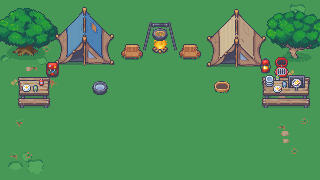
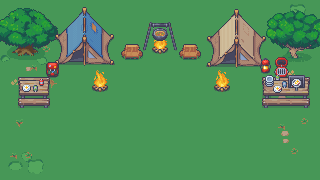
swap the bins in the venue backdrops for props that fit each place

Changed region(s): [[0.6562, 0.3889, 0.7188, 0.5278], [0.2812, 0.3889, 0.3438, 0.5278]]

diff --git a/scripts/venue-art.py b/scripts/venue-art.py
@@ -14,6 +14,7 @@ DESIGNS = MI / "6_Home_Designs"
 THEMES = MI / "1_Interiors/16x16/Theme_Sorter"
 BUILDER = MI / "1_Interiors/16x16/Room_Builder_subfiles"
 FARM = ART / "Modern_Farm_v1.3/16x16"
+PEOPLE = pathlib.Path(__file__).resolve().parent.parent / "public" / "court" / "people"
 OUT = pathlib.Path(__file__).resolve().parent.parent / "public" / "court" / "venues"
 OUT.mkdir(parents=True, exist_ok=True)
 W, H = 320, 180
@@ -68,14 +69,87 @@ def design(folder, stem):
     return load(DESIGNS / folder / "16x16" / stem)
 
 
-def bin_(n=13):
-    return ext(f"City_Props_16x16_Trashbin_{n}")
+def box(im, x, y, w, h, col):
+    im.paste(col, (x, y, x + w, y + h))
 
 
-def basin(s, im, x, y):
-    """A bin, bucket or basket the ball drops into: x is its middle, y the height of its opening.
+def sprite(w, h, parts):
+    """Tiny hand-drawn props: parts are (x, y, w, h, colour) boxes, later ones on top."""
+    im = Image.new("RGBA", (w, h))
+    for x, y, bw, bh, col in parts:
+        box(im, x, y, bw, bh, col)
+    return im
+
+
+def target(s, im, x, y, ox=None, oy=0):
+    """Puts a prop where the engine's thrown thing lands: (x, y) is that spot, (ox, oy) the same spot inside the prop.
     The engine's TARGETS (components/court/engine.ts) hold the same points."""
-    s.put(im, x, y + im.height - 3)
+    ox = im.width // 2 if ox is None else ox
+    s.queue.append((H + im.height, im, x - ox, y - oy))
+
+
+INK = (36, 28, 24, 255)
+
+
+def cart():
+    wood, light = (154, 107, 63, 255), (201, 150, 96, 255)
+    return sprite(24, 20, [
+        (0, 0, 2, 9, INK), (0, 0, 3, 2, INK),
+        (2, 5, 22, 3, INK), (3, 6, 20, 1, light),
+        (3, 8, 20, 8, INK), (4, 8, 18, 7, wood), (4, 8, 18, 1, light), (4, 11, 18, 1, INK),
+        (5, 13, 16, 1, INK), (5, 16, 4, 4, INK), (17, 16, 4, 4, INK), (6, 17, 2, 2, (170, 170, 176, 255)), (18, 17, 2, 2, (170, 170, 176, 255)),
+    ])
+
+
+def jar():
+    glass, rim = (190, 226, 238, 255), (112, 152, 172, 255)
+    return sprite(7, 10, [
+        (1, 0, 5, 2, (170, 176, 184, 255)), (1, 0, 5, 1, (214, 218, 224, 255)),
+        (0, 2, 7, 8, rim), (1, 2, 5, 7, glass), (1, 6, 5, 3, (240, 190, 80, 255)), (2, 7, 1, 1, (255, 230, 140, 255)), (4, 6, 1, 1, (255, 230, 140, 255)),
+    ])
+
+
+def pedestal():
+    stone, light, dark = (205, 200, 190, 255), (232, 228, 218, 255), (150, 144, 134, 255)
+    return sprite(16, 24, [
+        (0, 0, 16, 4, INK), (1, 1, 14, 2, light), (1, 3, 14, 1, dark),
+        (2, 4, 12, 16, INK), (3, 4, 10, 15, stone), (3, 4, 1, 15, light), (12, 4, 1, 15, dark),
+        (0, 20, 16, 4, INK), (1, 20, 14, 3, dark), (1, 20, 14, 1, stone),
+    ])
+
+
+def guitar_case():
+    return sprite(18, 10, [
+        (1, 0, 16, 3, INK), (2, 1, 14, 2, (92, 62, 40, 255)),
+        (0, 3, 18, 7, INK), (1, 4, 16, 4, (142, 47, 47, 255)), (1, 4, 16, 1, (176, 74, 66, 255)),
+        (3, 6, 1, 1, (240, 190, 80, 255)), (9, 5, 1, 1, (240, 190, 80, 255)), (13, 6, 1, 1, (240, 190, 80, 255)),
+        (1, 8, 16, 1, (110, 80, 52, 255)),
+    ])
+
+
+def peg():
+    return sprite(3, 9, [(0, 0, 3, 3, INK), (1, 0, 1, 2, (150, 156, 164, 255)), (1, 3, 1, 6, (110, 116, 124, 255)), (0, 8, 3, 1, INK)])
+
+
+def pit(w=34, h=11):
+    im = Image.new("RGBA", (w, h))
+    px = im.load()
+    for y in range(h):
+        for x in range(w):
+            dx, dy = (x + 0.5 - w / 2) / (w / 2), (y + 0.5 - h / 2) / (h / 2)
+            d = dx * dx + dy * dy
+            if d <= 1:
+                px[x, y] = (146, 104, 66, 255) if d > 0.8 else (176, 130, 84, 255) if (x * 5 + y * 3) % 7 else (160, 116, 74, 255)
+    return im
+
+
+def busker(who):
+    sheet = load(PEOPLE / f"{who}.png")
+    im = sheet.crop((18 * 16, 0, 18 * 16 + 16, 32))
+    for x, y, w, h, col in ((11, 14, 1, 1, INK), (12, 13, 1, 1, INK), (13, 12, 1, 1, INK), (14, 11, 1, 1, INK),
+                            (4, 17, 7, 6, INK), (5, 18, 5, 4, (190, 124, 66, 255)), (7, 19, 2, 2, INK)):
+        box(im, x, y, w, h, col)
+    return im
 
 
 def ice():
@@ -99,8 +173,8 @@ def ice():
     s.at(o((146, 53, 173, 80)), 146 + shift, 53 - up)
     s.at(o((18, 92, 61, 128)), 8, 84)
     s.at(o((130, 92, 172, 128)), 270, 84)
-    basin(s, bin_(), 75, 64)
-    basin(s, bin_(), 245, 64)
+    target(s, jar(), 107, 39, 3, 1)
+    target(s, jar(), 213, 39, 3, 1)
     return s.finish()
 
 
@@ -124,8 +198,6 @@ def tv():
     s.at(o((146, 119, 159, 143)), 296, 106)
     s.at(o((49, 97, 63, 128)), 16, 130)
     s.at(o((81, 97, 95, 128)), 36, 130)
-    basin(s, bin_(7), 70, 88)
-    basin(s, bin_(7), 250, 88)
     return s.finish()
 
 
@@ -147,8 +219,8 @@ def museum():
     s.put(o((64, 135, 80, 192)), 308, 66)
     s.at(o((34, 211, 62, 256)), 30, 58)
     s.at(o((242, 211, 270, 256)), 262, 58)
-    basin(s, bin_(5), 78, 86)
-    basin(s, bin_(5), 242, 86)
+    target(s, pedestal(), 78, 96, 8, 10)
+    target(s, pedestal(), 242, 96, 8, 10)
     return s.finish()
 
 
@@ -182,8 +254,9 @@ def beach():
     s.put(beach_prop("Sand_Castle_2_Vers_2"), 292, 108)
     s.put(beach_prop("Medium_Sea_Rock_1_Vers_1"), 130, 36)
     s.put(beach_prop("Medium_Sea_Rock_1_Vers_2"), 186, 38)
-    basin(s, beach_prop("Small_Red_Bucket_1"), 100, 82)
-    basin(s, beach_prop("Small_Blue_Bucket_1"), 212, 82)
+    castle = beach_prop("Sand_Castle_1_Vers_1")
+    target(s, castle, 100, 82, castle.width // 2, 10)
+    target(s, castle, 212, 82, castle.width // 2, 10)
     return s.finish()
 
 
@@ -216,8 +289,8 @@ def camp():
     s.put(c("Backpack_2"), 52, 78)
     s.put(c("Lantern_2"), 266, 74)
     s.put(c("Barbecue_2"), 282, 80)
-    basin(s, c("Bucket_2"), 100, 84)
-    basin(s, c("Basket_1"), 222, 84)
+    target(s, c("Campfire_3"), 100, 84, 8, 14)
+    target(s, c("Campfire_3"), 222, 84, 8, 14)
     return s.finish()
 
 
@@ -232,12 +305,13 @@ def farm():
     s.put(f("Well_Usable"), 94, 84)
     s.put(f("Scarecrow"), 232, 80)
     s.put(f("Tractor_Right_Side"), 292, 100)
-    s.put(f("Raw_Bale_Big"), 28, 112)
-    s.put(f("Raw_Bale_Big"), 44, 112)
-    s.put(f("Milk_Can_1"), 90, 112)
+    s.put(f("Raw_Bale_Big"), 28, 130)
+    s.put(f("Raw_Bale_Big"), 44, 130)
+    s.put(f("Milk_Can_1"), 104, 126)
     s.put(f("Pimpkin_Big"), 226, 100)
-    s.put(f("Crate_Brown_Empty"), 250, 108)
-    basin(s, f("Bucket_1_Single"), 70, 88)
+    for x in (74, 250):
+        s.paste(pit(), x - 17, 100)
+        target(s, peg(), x, 106, 1, 6)
     return s.finish()
 
 
@@ -262,8 +336,8 @@ def library():
     s.put(cut(208, 16, 16, 32), 112, 64)
     s.put(cut(80, 16, 34, 34), 30, 112)
     s.put(cut(80, 16, 34, 34), 290, 112)
-    basin(s, ext("Camping_16x16_Basket_1"), 80, 84)
-    basin(s, ext("Camping_16x16_Basket_1"), 240, 84)
+    target(s, cart(), 80, 84, 13, 5)
+    target(s, cart(), 240, 84, 13, 5)
     return s.finish()
 
 
@@ -280,8 +354,9 @@ def street():
     s.put(ext("City_Props_16x16_Tree_1"), 160, 70)
     s.put(ext("City_Props_16x16_Bench_2"), 40, 104)
     s.put(ext("City_Props_16x16_Bench_2"), 280, 104)
-    basin(s, bin_(), 72, 82)
-    basin(s, bin_(), 248, 82)
+    for x, who in ((72, "scout3-1"), (248, "scout5-2")):
+        s.put(busker(who), x, 84)
+        target(s, guitar_case(), x, 86, 9, 3)
     s.put(ext("Villas_16x16_Potted_Flowers_2"), 120, 72)
     s.put(ext("Villas_16x16_Potted_Flowers_3"), 200, 72)
     return s.finish()
